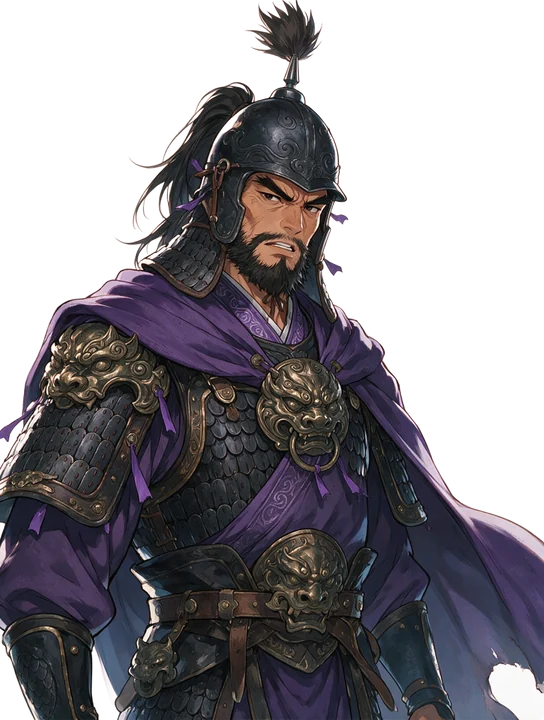
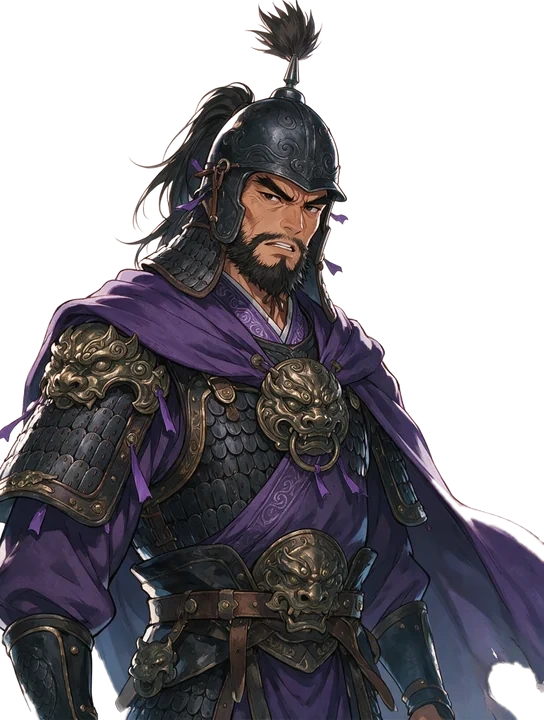
Li Jue's portrait: the white patch the cut-out left at the cape's bottom-right edge cleared (no regeneration); portrait cache v4
Claude-Session: https://claude.ai/code/session_01CG7crrkzqt1vmaeQ7L7w6w

diff --git a/tk-town.js b/tk-town.js
@@ -188,7 +188,7 @@ const TownArt = {
 /* ---------- DOM overlay: goal, dialogue with portraits and voice ---------- */
 const TownUI = {
   // who -> portrait file (assets/tk/portraits/portraits.json, tools/build_portraits.py), fetched once
-  portraits: {}, PORTRAIT_V: 3,
+  portraits: {}, PORTRAIT_V: 4,
   loadPortraits() {
     if (!this._pp) this._pp = fetch(`assets/tk/portraits/portraits.json?v=${this.PORTRAIT_V}`).then(r => r.ok ? r.json() : {})
       .catch(() => ({})).then(m => { this.portraits = m; for (const f of Object.values(m)) new Image().src = `assets/tk/portraits/${f}?v=${this.PORTRAIT_V}`; });

diff --git a/index.html b/index.html
@@ -25,7 +25,7 @@
 </div>
 <script src="engine/engine-utils.js"></script>
 <script src="tk.js?v=128"></script>
-<script src="tk-town.js?v=39"></script>
+<script src="tk-town.js?v=40"></script>
 <script src="tk-iso.js?v=12"></script>
 <script src="tk-world.js?v=224"></script>
 <script src="tk-items.js?v=7"></script>
